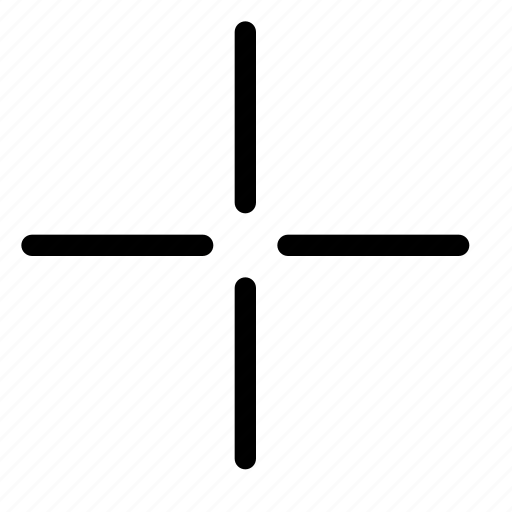
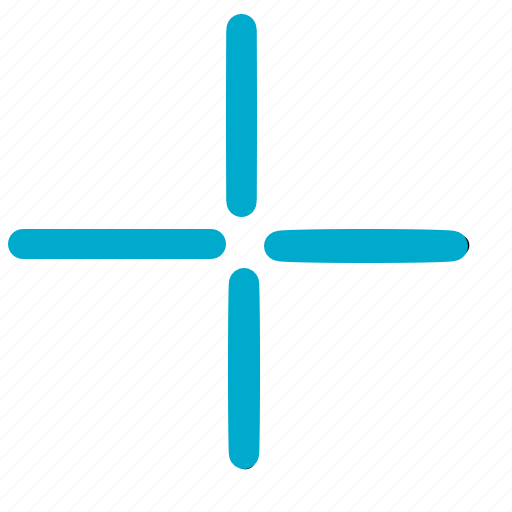
make the crosshair blue

diff --git a/Assets/Scripts/PlayerController.cs b/Assets/Scripts/PlayerController.cs
@@ -453,7 +453,7 @@ public class PlayerController : MonoBehaviour
 
         if (blinkReady && blinkVector != Vector3.zero)
         {
-            if (Physics.Raycast(transform.position + transform.up * 0.5f, blinkVector, out RaycastHit hit, blinkDistance, LayerMask.GetMask(new string[] {"LevelLineOfSight", "Level"})))
+            if (Physics.Raycast(transform.position + transform.up * 0.7f, blinkVector, out RaycastHit hit, blinkDistance, LayerMask.GetMask(new string[] {"LevelLineOfSight", "Level"})))
             {
                 Debug.Log("Obstacle detected! shorter teleport");
                 transform.position += blinkVector * (hit.distance - 1.5f);
